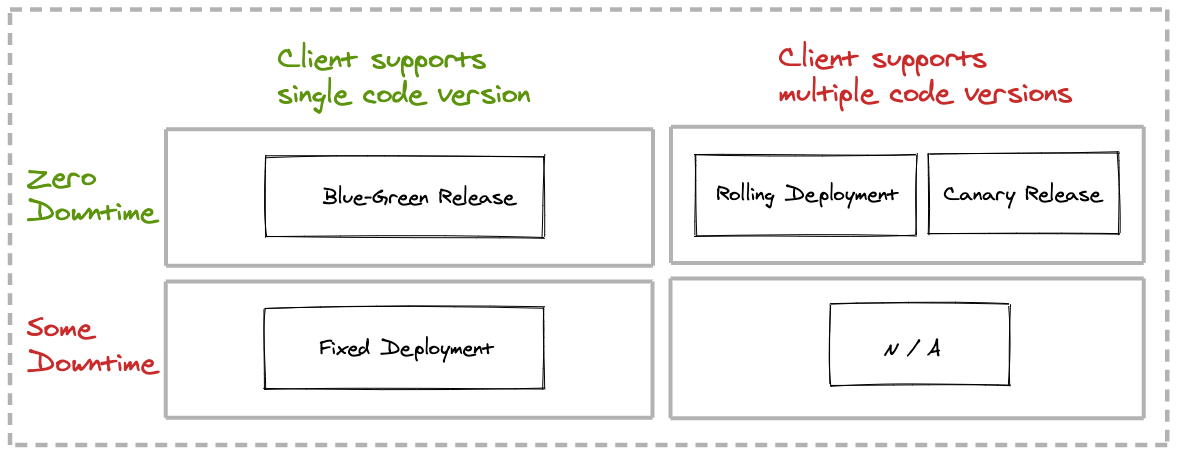
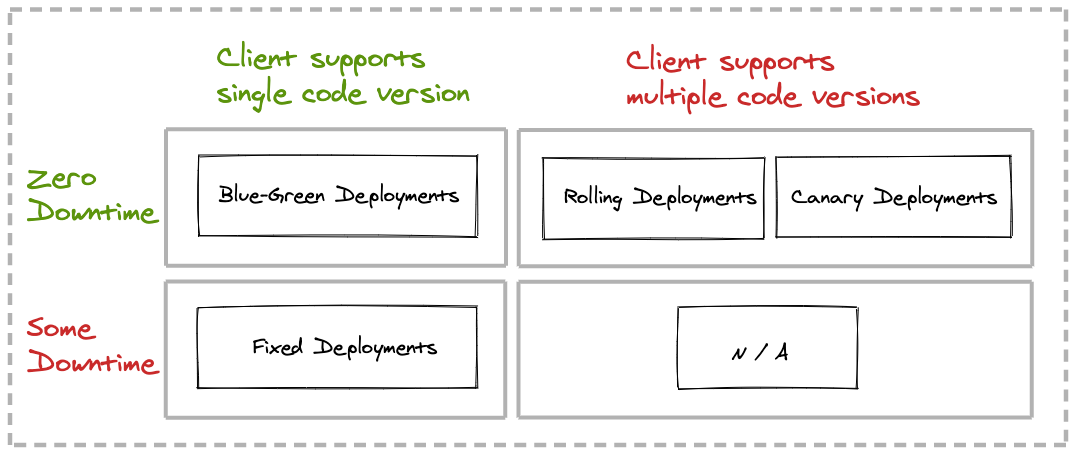
Finalized blog post

diff --git a/content/blog/declarative-deployments-kubernetes.md b/content/blog/declarative-deployments-kubernetes.md
@@ -1,5 +1,5 @@
 ---
-title: "Declarative Deployments in Kubernetes: What Options do I have"
+title: "Declarative Deployments in Kubernetes: What options do I have?"
 featured: false
 
 description: >
@@ -25,7 +25,7 @@ Deployment processes are performed while allowing for zero or some downtime, at 
 
 What options do you have to turn deployments into a predictable, repeatable, consistent, easy to observe process? Kubernetes to the rescue ... with **Declarative Deployments**...
 
-## What are Declarative Deployments in Kubernetes?
+## What are declarative deployments in Kubernetes?
 
 The concept of Deployment in Kubernetes encapsulates the upgrade and rollback processes of a group of containers and makes its execution a repeatable and automated activity.
 
@@ -35,7 +35,7 @@ Declarative deployments allow us to describe how an application should be update
 The core of the Deployment is centered around its ability to start and stop Pods in a predictable manner. 
 In turn, containers respect cloud best practices and listen to and honor lifecycle events or provide health-check endpoints.
 
-## How do you pick the optimal deployment option for your app?
+## How do you pick the best deployment pattern for your app?
 
 As the number of microservices in the organization increases, so does the number of clients of a microservice and the complexity of the interconnected services. 
 The approach to be taken centers primarily on a couple of discriminating factors:
@@ -44,8 +44,262 @@ The approach to be taken centers primarily on a couple of discriminating factors
 
 Let's introduce a simple decision matrix for declarative deployments, then look at each of the patterns individually.
 
+1. [Rolling Deployments](#1)
+2. [Fixed Deployments](#2)
+3. [Blue-Green Deployments](#3)
+4. [Canary Deployments](#4)
+
 ![Deployment options
-](/images/blogs/declarative-deployment-kubernetes/summary.png)
+](/images/blogs/declarative-deployments-kubernetes/summary.png)
 
-**Note:** The code and configurations for all of the deployment options can be found on [GitHub](https://github.com/ddobrin/declarative-deployments-k8s). 
+#### Pattern implementations:  
+A sample application, including step-by-step instructions, source code and Kubernetes deployment configurations for all four deployment patterns can be found on [GitHub](https://github.com/ddobrin/declarative-deployments-k8s).
 
+<a name="1"></a>
+## Rolling Deployments
+
+#### Pros:
+* Zero downtime during the update process
+* Ability to control the rate of a new container rollout
+
+#### Cons:
+* During the update, two versions of the container are running at the same time
+
+#### How does it work:
+* Deployment creates a new ReplicaSet and the respective Pods
+* Deployment replaces the old containers with the previous application version with the new ones
+* Deployment allows you to control the range of available and excess Pods
+
+![Rolling Deployment - Prior to Deployment](/images/blogs/declarative-deployments-kubernetes/RD1.png)  
+
+
+![Rolling Deployment - During Deployment](/images/blogs/declarative-deployments-kubernetes/RD2.png)  
+
+![Rolling Deployment - Post Deployment](/images/blogs/declarative-deployments-kubernetes/RD3.png)  
+
+#### The Deployment configuration
+The Deployment uses the `RollingUpdate` strategy and allows full control over how many instances of the `my-app` application can be unavailable at any given moment in time:
+```yaml
+kind: Deployment
+metadata:
+  name: my-app
+spec:
+  replicas: 3
+  strategy:
+    type: RollingUpdate
+    rollingUpdate: 
+      maxSurge: 1
+      maxUnavailable: 1
+  selector:
+    matchLabels:
+      app: my-app
+  template:
+    metadata:
+      labels:
+        app: my-app
+...        
+```
+
+The Service selects all nodes for the `my-app` application matching the label:
+```yaml
+kind: Service
+metadata:
+  labels:
+    app: my-app
+  name: my-servappice
+  namespace: default
+spec:
+...
+  selector:
+    app: my-app
+  type: NodePort
+```
+
+<a name="2"></a>
+## Fixed Deployments
+
+#### Pros:
+* Single version serves requests at any moment in time
+* Simpler process for service consumers, as they do not have to handle multiple versions at the same time
+
+#### Cons:
+* There is downtime while old containers are stopped, and the new ones are starting
+
+#### How does it work:
+* Deployment stops first all containers deployed for the old application version
+* Clients experience an outage, as no application instance is available to process requests
+* Deployment creates the new containers
+* Client accesses requests serviced by the new application version
+
+![Fixed Deployment - Prior to Deployment](/images/blogs/declarative-deployments-kubernetes/FD1.png)  
+
+![Fixed Deployment - During Deployment](/images/blogs/declarative-deployments-kubernetes/FD2.png)  
+
+![Fixed Deployment - Post Deployment](/images/blogs/declarative-deployments-kubernetes/FD3.png)  
+
+#### The Deployment configuration
+The Deployment uses the `Recreate` strategy as it terminates all pods from a deployment before creating the pods for the new version of the `my-app` application:
+```yaml
+kind: Deployment
+metadata:
+  name: my-app
+spec:
+  replicas: 3
+  strategy:
+    type: Recreate
+  selector:
+    matchLabels:
+      app: my-app
+...        
+```
+
+The Service selects all nodes for the `my-app` application matching the label:
+```yaml
+kind: Service
+metadata:
+  labels:
+    app: my-app
+  name: my-app
+  namespace: default
+spec:
+...
+  selector:
+    app: my-app
+  type: NodePort
+```
+
+<a name="3"></a>
+## Blue-Green Deployments
+
+#### Pros:
+* Single application version serves requests at any moment in time
+* Zero downtime during the update
+* Allows precise control of switching to the new application version
+
+#### Cons:
+* Requires 2x capacity while both blue and green versions are up 
+* Manual intervention for switching versions
+
+#### How does it work :
+* A second Deployment is created manually for the new version (green)
+* The new version (green) does not serve client requests yet and can be tested internally to validate the deployment
+* The Service Selector in K8s is being updated to route traffic to the new version (green), followed by the removal of the old (blue) Deployment
+
+![Blue-Green Deployment - Prior to Deployment](/images/blogs/declarative-deployments-kubernetes/BGD1.png)  
+
+![Blue-Green Deployment - During Deployment](/images/blogs/declarative-deployments-kubernetes/BGD2.png)  
+
+![Blue-Green Deployment - Post Deployment](/images/blogs/declarative-deployments-kubernetes/BGD3.png)  
+
+#### The Deployment configuration
+The Deployment does not provide a specific strategy, as the service exposing the deployment is the K8s resource participating in the deployment process which selects which pod instances are exposed to client requests. In this excerpt, 2 labels are used, `my-app` and `blue`:
+```yaml
+kind: Deployment
+metadata:
+  name: my-app-blue
+spec:
+  replicas: 3
+  selector:
+    matchLabels:
+      app: my-app
+  template:
+    metadata:
+      labels:
+        app: my-app
+        version: blue
+...        
+```
+
+The Service selects all nodes for the `my-app` application matching multiple labels: the app + the version. This allows the selection of the pods matching a specific version. This excerpt has the Service matching 2 labels `my-app` and 'blue`:
+```yaml
+kind: Service
+metadata:
+  labels:
+    app: my-app
+  name: my-app
+  namespace: default
+spec:
+...
+  selector:
+    app: my-app
+    version: blue
+  type: NodePort
+```
+
+<a name="4"></a>
+# Canary Deployments
+
+#### Pros:
+* Reduces the risk of a new service version by controlling access to the new version to a subset of consumers
+* Allows precise control of full switch to the new version
+
+#### Cons:
+* Manual intervention for switch
+* Consumers failing to handle multiple versions simultaneously see failures
+
+#### How does it work:
+* A second Deployment is created manually for the new application version (canary) with a small set of instances
+* Some of the client requests are now redirected to the canary application version
+* Once there is confidence that the canary version works as expected, traffic is fully scaled up for the canary application version and scaled to zero for the old one
+
+![Canary Deployment - Prior to Deployment](/images/blogs/declarative-deployments-kubernetes/CD1.png)  
+
+![Canary Deployment - During Deployment](/images/blogs/declarative-deployments-kubernetes/CD2.png)  
+
+![Canary Deployment - Post Deployment](/images/blogs/declarative-deployments-kubernetes/CD3.png)  
+
+#### The Deployment configuration
+The Deployment does not provide a specific strategy, as the service exposing the deployment is the K8s resource participating in the deployment process which selects which pod instances are exposed to client requests. In this excerpt, 2 labels are used, `my-app` and `1.0`, the canary deployment will use `my-app` and `canary`, which will allow the Service to match pods by a single label `my-app`:
+```yaml
+# initial deployment
+kind: Deployment
+metadata:
+  name: my-app
+spec:
+  replicas: 3
+  selector:
+    matchLabels:
+      app: my-app
+  template:
+    metadata:
+      labels:
+        app: my-app
+        version: "1.0"
+...        
+# canary deployment
+kind: Deployment
+metadata:
+  name: my-app-canary
+spec:
+  replicas: 1
+  selector:
+    matchLabels:
+      app: my-app
+  template:
+    metadata:
+      labels:
+        app: my-app
+        version: canary
+...
+```
+
+The Service selects all nodes for the my-app matching the labels for the app:
+```yaml
+kind: Service
+metadata:
+  labels:
+    app: my-app
+  name: my-app
+  namespace: default
+spec:
+...
+  selector:
+    app: my-app
+  type: NodePort
+```
+
+## Thinking Ahead
+
+You have built cloud-native applications, and the different deployment patterns are understood by now. Use a simple decision process, based on the resources available to you, respectively the client tolerance for multiple versions of your application, before deploying any new application to Production. 
+
+As conditions change, you have full flexibility to change your approach to deploying your applications to Kubernetes!
